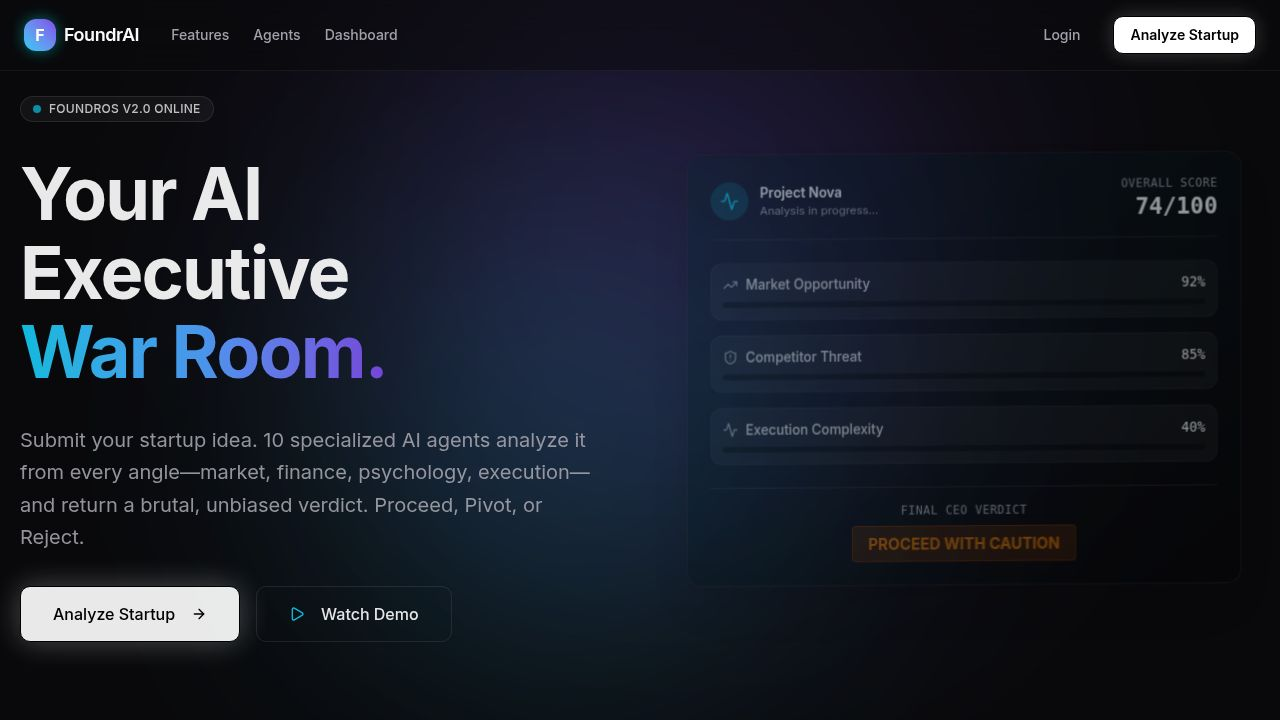
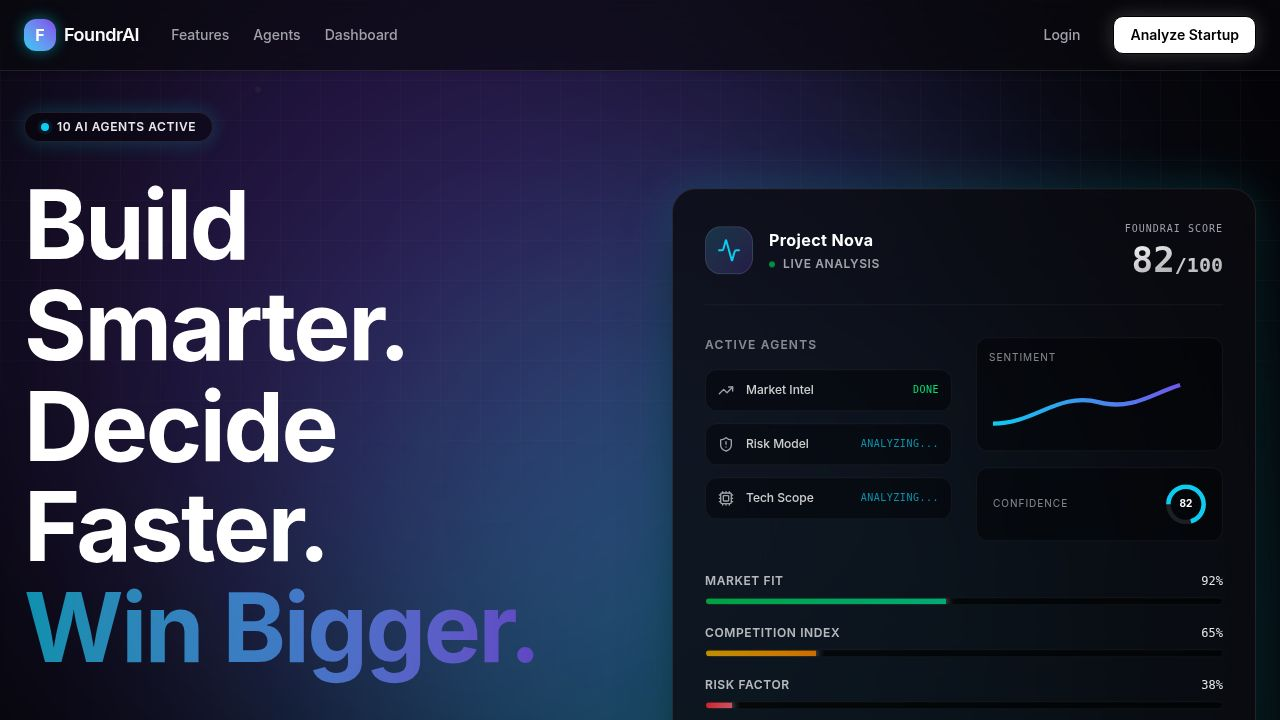
Update application to use React Router for navigation between pages
Replace wouter with react-router-dom, introduce routes for /, /analyze, and /dashboard, and refactor components to utilize Link and useNavigate for client-side routing.

Replit-Commit-Author: Agent
Replit-Commit-Session-Id: 9fc78165-3526-4e74-9484-42fada932717
Replit-Commit-Checkpoint-Type: full_checkpoint
Replit-Commit-Event-Id: 2686c05c-50f3-458d-b240-e8d4e4f36d25
Replit-Commit-Screenshot-Url: https://storage.googleapis.com/screenshot-production-us-central1/d2639512-fc62-436e-beb7-ca6b209c90d0/9fc78165-3526-4e74-9484-42fada932717/fmg62TO
Replit-Helium-Checkpoint-Created: true

diff --git a/artifacts/foundrai/src/pages/Dashboard.tsx b/artifacts/foundrai/src/pages/Dashboard.tsx
@@ -1,0 +1,31 @@
+import { motion } from "framer-motion";
+import { Link } from "react-router-dom";
+import { ArrowLeft } from "lucide-react";
+
+export default function Dashboard() {
+  return (
+    <div className="min-h-screen w-full bg-[#050508] text-foreground flex items-center justify-center px-6">
+      <motion.div
+        initial={{ opacity: 0, y: 20 }}
+        animate={{ opacity: 1, y: 0 }}
+        transition={{ duration: 0.6, ease: [0.16, 1, 0.3, 1] }}
+        className="max-w-lg w-full text-center rounded-3xl border border-white/10 bg-white/[0.03] backdrop-blur-2xl p-12 shadow-[0_0_60px_rgba(80,80,255,0.08)]"
+      >
+        <div className="mx-auto mb-6 w-14 h-14 rounded-xl bg-gradient-to-tr from-primary to-secondary flex items-center justify-center font-bold text-white shadow-[0_0_20px_rgba(0,255,255,0.35)]">
+          F
+        </div>
+        <h1 className="text-3xl font-bold tracking-tight mb-3">Dashboard Coming Soon</h1>
+        <p className="text-muted-foreground mb-8">
+          Your AI Boardroom results will appear here once analysis is complete.
+        </p>
+        <Link
+          to="/"
+          className="inline-flex items-center gap-2 text-sm text-muted-foreground hover:text-white transition-colors"
+        >
+          <ArrowLeft className="w-4 h-4" />
+          Back to Home
+        </Link>
+      </motion.div>
+    </div>
+  );
+}

diff --git a/artifacts/foundrai/src/App.tsx b/artifacts/foundrai/src/App.tsx
@@ -1,20 +1,22 @@
-import { Switch, Route, Router as WouterRouter } from "wouter";
+import { Routes, Route, BrowserRouter } from "react-router-dom";
 import { QueryClient, QueryClientProvider } from "@tanstack/react-query";
 import { Toaster } from "@/components/ui/toaster";
 import { TooltipProvider } from "@/components/ui/tooltip";
 import NotFound from "@/pages/not-found";
-import Home from "@/pages/Home";
+import LandingPage from "@/pages/LandingPage";
 import Analyze from "@/pages/Analyze";
+import Dashboard from "@/pages/Dashboard";
 
 const queryClient = new QueryClient();
 
 function Router() {
   return (
-    <Switch>
-      <Route path="/" component={Home} />
-      <Route path="/analyze" component={Analyze} />
-      <Route component={NotFound} />
-    </Switch>
+    <Routes>
+      <Route path="/" element={<LandingPage />} />
+      <Route path="/analyze" element={<Analyze />} />
+      <Route path="/dashboard" element={<Dashboard />} />
+      <Route path="*" element={<NotFound />} />
+    </Routes>
   );
 }
 
@@ -22,9 +24,9 @@ function App() {
   return (
     <QueryClientProvider client={queryClient}>
       <TooltipProvider>
-        <WouterRouter base={import.meta.env.BASE_URL.replace(/\/$/, "")}>
+        <BrowserRouter basename={import.meta.env.BASE_URL.replace(/\/$/, "")}>
           <Router />
-        </WouterRouter>
+        </BrowserRouter>
         <Toaster />
       </TooltipProvider>
     </QueryClientProvider>

diff --git a/artifacts/foundrai/src/components/Navbar.tsx b/artifacts/foundrai/src/components/Navbar.tsx
@@ -1,8 +1,10 @@
 import { motion } from "framer-motion";
-import { Link } from "wouter";
+import { Link, useNavigate } from "react-router-dom";
 import { Button } from "@/components/ui/button";
 
 export default function Navbar() {
+  const navigate = useNavigate();
+
   return (
     <motion.header
       initial={{ y: -100, opacity: 0 }}
@@ -11,7 +13,7 @@ export default function Navbar() {
       className="fixed top-0 left-0 w-full z-[9999] px-6 py-4 flex items-center justify-between border-b border-white/10 bg-background/60 backdrop-blur-2xl shadow-sm"
     >
       <div className="flex items-center gap-8">
-        <Link href="/" className="flex items-center gap-2">
+        <Link to="/" className="flex items-center gap-2">
           <div className="w-8 h-8 rounded-lg bg-gradient-to-tr from-primary to-secondary flex items-center justify-center font-bold text-white shadow-[0_0_15px_rgba(0,255,255,0.4)]">
             F
           </div>
@@ -20,14 +22,17 @@ export default function Navbar() {
         <nav className="hidden md:flex items-center gap-6 text-sm text-muted-foreground font-medium">
           <a href="#features" className="hover:text-white transition-colors">Features</a>
           <a href="#agents" className="hover:text-white transition-colors">Agents</a>
-          <a href="#dashboard" className="hover:text-white transition-colors">Dashboard</a>
+          <Link to="/dashboard" className="hover:text-white transition-colors">Dashboard</Link>
         </nav>
       </div>
       <div className="flex items-center gap-4">
         <Button variant="ghost" className="hidden sm:inline-flex text-muted-foreground hover:text-white hover:bg-white/5">
           Login
         </Button>
-        <Button className="bg-white text-black hover:bg-white/90 shadow-[0_0_20px_rgba(255,255,255,0.2)] font-semibold">
+        <Button
+          onClick={() => navigate("/analyze")}
+          className="bg-white text-black hover:bg-white/90 shadow-[0_0_20px_rgba(255,255,255,0.2)] font-semibold"
+        >
           Analyze Startup
         </Button>
       </div>

diff --git a/artifacts/foundrai/src/components/Hero.tsx b/artifacts/foundrai/src/components/Hero.tsx
@@ -1,8 +1,11 @@
 import { motion } from "framer-motion";
+import { useNavigate } from "react-router-dom";
 import { Button } from "@/components/ui/button";
 import { Play, ArrowRight, Activity, ShieldAlert, TrendingUp, Cpu, PieChart, Users } from "lucide-react";
 
 export default function Hero() {
+  const navigate = useNavigate();
+
   return (
     <section className="relative min-h-[100dvh] flex items-center pt-28 pb-20 overflow-hidden bg-[#050508]">
       {/* Animated Grid Background */}
@@ -74,7 +77,11 @@ export default function Hero() {
           </p>
 
           <div className="flex flex-col sm:flex-row items-center gap-5 pt-4">
-            <Button size="lg" className="w-full sm:w-auto h-16 px-10 text-lg bg-white text-black hover:bg-gray-100 shadow-[0_0_40px_rgba(255,255,255,0.3)] transition-all hover:scale-105 rounded-full font-bold relative group overflow-hidden">
+            <Button
+              onClick={() => navigate("/analyze")}
+              size="lg"
+              className="w-full sm:w-auto h-16 px-10 text-lg bg-white text-black hover:bg-gray-100 shadow-[0_0_40px_rgba(255,255,255,0.3)] transition-all hover:scale-105 rounded-full font-bold relative group overflow-hidden"
+            >
               <span className="relative z-10 flex items-center">Analyze Startup <ArrowRight className="ml-2 w-5 h-5 group-hover:translate-x-1 transition-transform" /></span>
               <div className="absolute inset-0 bg-white/50 blur-xl group-hover:bg-white/80 transition-all opacity-0 group-hover:opacity-100" />
             </Button>

diff --git a/artifacts/foundrai/src/pages/Analyze.tsx b/artifacts/foundrai/src/pages/Analyze.tsx
@@ -1,6 +1,6 @@
 import { useState } from "react";
 import { motion, AnimatePresence } from "framer-motion";
-import { Link } from "wouter";
+import { Link } from "react-router-dom";
 import { ArrowLeft, ArrowRight, BrainCircuit, Activity, BarChart3, LineChart, ChevronRight } from "lucide-react";
 import { Button } from "@/components/ui/button";
 import { Input } from "@/components/ui/input";
@@ -71,14 +71,14 @@ export default function Analyze() {
       {/* Navbar/Header */}
       <header className="relative z-50 px-6 py-6 flex items-center justify-between border-b border-white/5 bg-background/20 backdrop-blur-xl">
         <div className="flex items-center gap-8">
-          <Link href="/" className="flex items-center gap-2 group">
+          <Link to="/" className="flex items-center gap-2 group">
             <div className="w-8 h-8 rounded-lg bg-gradient-to-tr from-primary to-secondary flex items-center justify-center font-bold text-white shadow-[0_0_15px_rgba(0,255,255,0.4)] transition-transform group-hover:scale-105">
               F
             </div>
             <span className="font-semibold text-lg tracking-tight">FoundrAI</span>
           </Link>
         </div>
-        <Link href="/" className="inline-flex items-center gap-2 text-sm text-muted-foreground hover:text-white transition-colors">
+        <Link to="/" className="inline-flex items-center gap-2 text-sm text-muted-foreground hover:text-white transition-colors">
           <ArrowLeft className="w-4 h-4" /> Back to Home
         </Link>
       </header>